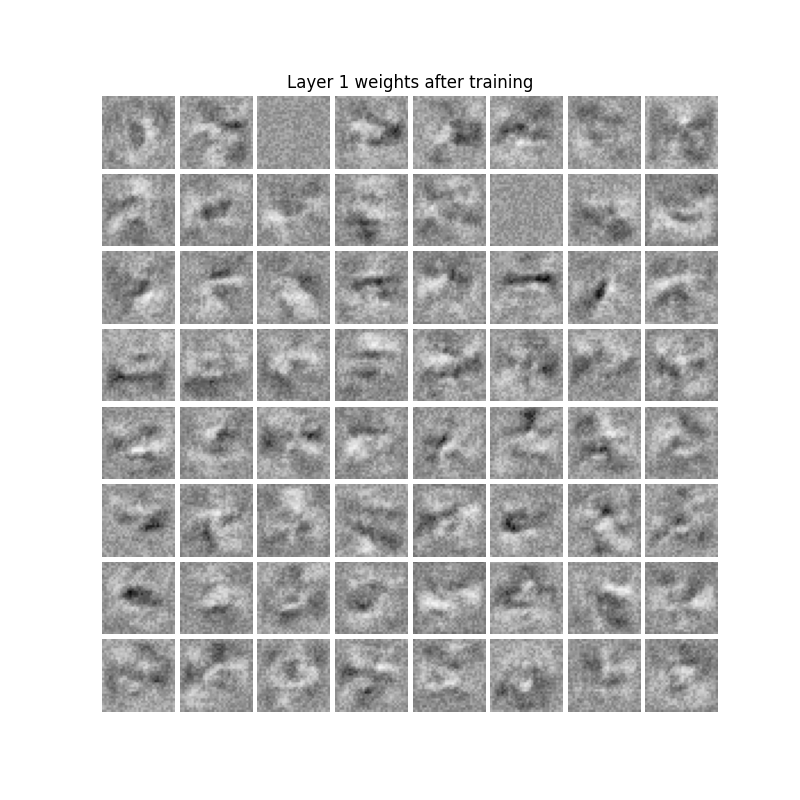
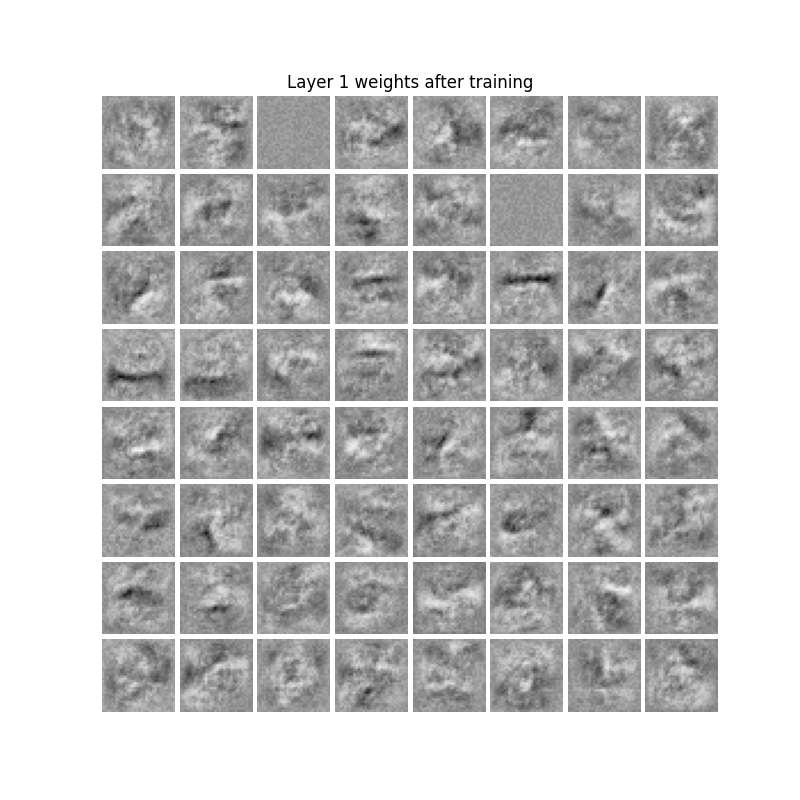
Updated learning rate to reach 75% above acc

diff --git a/HW4_Deep_Learning/python/run_q3.py b/HW4_Deep_Learning/python/run_q3.py
@@ -24,9 +24,9 @@ if False:  # view the data
 max_iters = 50
 # pick a batch size, learning rate
 batch_size = 32
-# learning_rate = 0.01
-learning_rate = 0.001
-# learning_rate = 0.0001
+# learning_rate = 0.03
+# learning_rate = 0.003
+learning_rate = 0.0003
 hidden_size = 64
 ##########################
 ##### your code here #####
